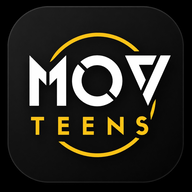
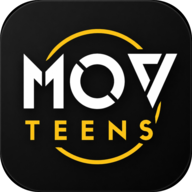
feat: add AdminLogoMark component and update admin login and sidebar to use it

diff --git a/components/admin/admin-sidebar.tsx b/components/admin/admin-sidebar.tsx
@@ -13,6 +13,7 @@ import {
   Moon,
   ChevronRight,
 } from "lucide-react";
+import { AdminLogoMark } from "@/components/admin/admin-logo-mark";
 
 const NAV_ITEMS = [
   {
@@ -44,9 +45,7 @@ export function AdminSidebar({ children }: { children: React.ReactNode }) {
       <div
         className={`flex items-center gap-3 px-4 py-5 border-b border-border ${collapsed ? "justify-center" : ""}`}
       >
-        <div className="w-8 h-8 rounded-lg bg-primary/20 flex items-center justify-center flex-shrink-0">
-          <span className="text-sm">⛺</span>
-        </div>
+        <AdminLogoMark size="md" />
         {!collapsed && (
           <div className="overflow-hidden">
             <p className="text-sm font-bold text-foreground tracking-tight leading-none">
@@ -145,9 +144,7 @@ export function AdminSidebar({ children }: { children: React.ReactNode }) {
       >
         <div className="flex items-center justify-between px-4 py-4 border-b border-border">
           <div className="flex items-center gap-2">
-            <div className="w-7 h-7 rounded-lg bg-primary/20 flex items-center justify-center">
-              <span className="text-xs">⛺</span>
-            </div>
+            <AdminLogoMark size="sm" />
             <span className="text-sm font-bold">MovTeens Admin</span>
           </div>
           <button

diff --git a/app/admin/login/page.tsx b/app/admin/login/page.tsx
@@ -3,6 +3,7 @@
 import { useState } from 'react';
 import { useRouter, useSearchParams } from 'next/navigation';
 import { EyeIcon, EyeSlashIcon } from '@heroicons/react/24/outline';
+import { AdminLogoMark } from '@/components/admin/admin-logo-mark';
 
 function getSafeRedirectPath(from: string | null): string {
   if (!from || from === '/admin/login') {
@@ -47,9 +48,7 @@ export default function AdminLogin() {
     <main className="min-h-screen bg-background flex items-center justify-center px-4">
       <div className="w-full max-w-sm space-y-6">
         <div className="text-center space-y-2">
-          <div className="w-12 h-12 rounded-2xl bg-primary/20 flex items-center justify-center mx-auto text-2xl">
-            ⛺
-          </div>
+          <AdminLogoMark size="lg" className="mx-auto" />
           <h1 className="text-xl font-black tracking-tight">Acampa Admin</h1>
           <p className="text-xs text-muted-foreground">
             Digite a senha para continuar

diff --git a/components/admin/admin-logo-mark.tsx b/components/admin/admin-logo-mark.tsx
@@ -1,0 +1,43 @@
+'use client';
+
+import Image from 'next/image';
+import { cn } from '@/lib/utils';
+
+const BOX: Record<'sm' | 'md' | 'lg', string> = {
+  sm: 'size-7 rounded-lg',
+  md: 'size-8 rounded-lg',
+  lg: 'size-12 rounded-2xl',
+};
+
+const PX: Record<'sm' | 'md' | 'lg', number> = {
+  sm: 28,
+  md: 32,
+  lg: 48,
+};
+
+type Props = {
+  size?: 'sm' | 'md' | 'lg';
+  className?: string;
+};
+
+export function AdminLogoMark({ size = 'md', className }: Props) {
+  return (
+    <div
+      className={cn(
+        'flex shrink-0 items-center justify-center overflow-hidden p-0.5',
+        BOX[size],
+        className,
+      )}
+      aria-hidden
+    >
+      <Image
+        src="/pwa-icon-192.png"
+        alt=""
+        width={PX[size]}
+        height={PX[size]}
+        className="size-full rounded-[inherit] object-cover"
+        unoptimized
+      />
+    </div>
+  );
+}

diff --git a/components/admin/admin-theme-provider.tsx b/components/admin/admin-theme-provider.tsx
@@ -41,6 +41,15 @@ export function AdminThemeProvider({ children }: { children: React.ReactNode }) 
     setMounted(true);
   }, []);
 
+  useEffect(() => {
+    if (!mounted) return;
+    const root = document.documentElement;
+    root.classList.toggle('dark', theme === 'dark');
+    return () => {
+      root.classList.remove('dark');
+    };
+  }, [theme, mounted]);
+
   const toggleTheme = useCallback(() => {
     setThemeState((current) => {
       const next = current === 'dark' ? 'light' : 'dark';
